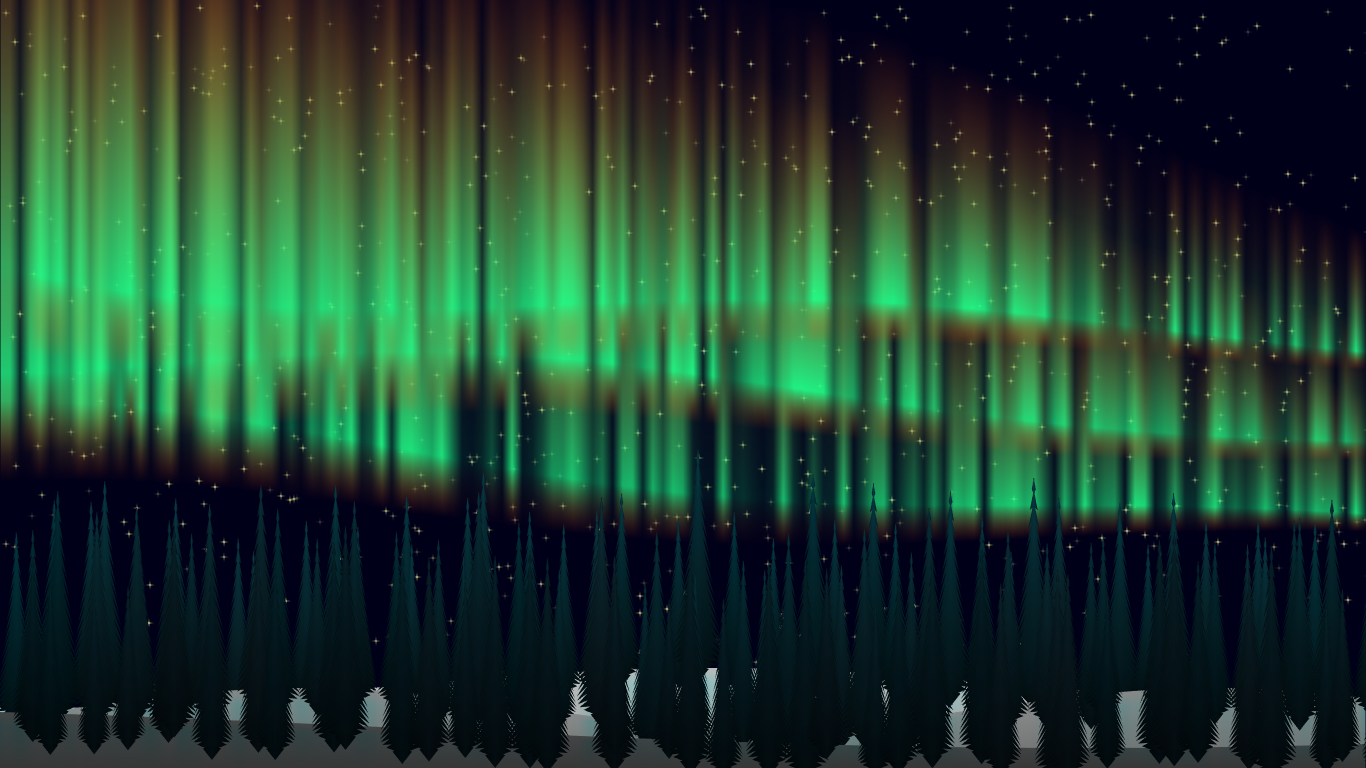
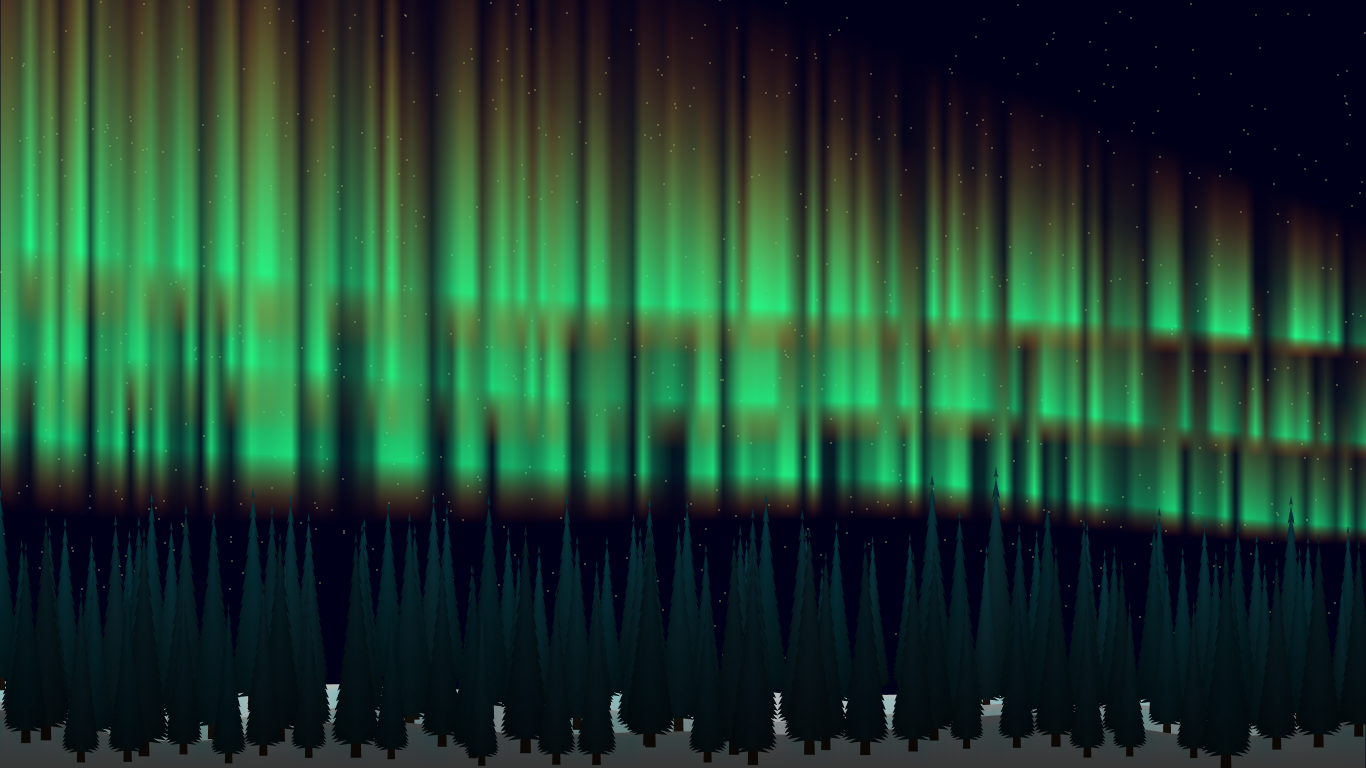
Release 1.3
Mostly removal of deprecated code and overall cleanup

diff --git a/Stars.cpp b/Stars.cpp
@@ -36,52 +36,24 @@ void Stars::draw(RenderTarget * renderTarget) {
   if (timeMapped >= -0.66 && timeMapped <= 0.66)
     return;
 
+  std::vector<Vertex> v;
   for (int i = 0; i < starsCount; i++) {
-
     float maskFloat = 1;
     if (timeMapped < 0 && timeMapped > -0.75 && timeMapped < -0.66)
       maskFloat *= map(timeMapped, -0.75, -0.66, 1, 0);
     else if (timeMapped > 0 && timeMapped > 0.66 && timeMapped < 0.75)
       maskFloat *= map(timeMapped, 0.66, 0.75, 0, 1);
 
-    if (controller->flags & Controller::Flags::LegacyStars) {
-      unsigned int x = stars[i][0] * controller->w + radius;
-      unsigned int y = stars[i][1] * controller->h * hMod + radius;
+    unsigned int x = stars[i][0] * controller->w;
+    unsigned int y = stars[i][1] * controller->h * hMod;
 
-      double waneSine = sin((blinkOffset + i) * M_PI / 180);
+    double waneSine = sin((blinkOffset + i) * M_PI / 180);
+    Color mask(0xFF, 0xFF, 0xFF, map(waneSine, -1, 1, 0.9, 1) * maskFloat * maxBrightness * 0xFF);
 
-      Color mask(0xFF, 0xFF, 0xFF, map(waneSine, -1, 1, 0.25, 1) * maskFloat * 0xFF);
-
-      Vertex line1[] =
-      {
-        Vertex(Vector2f(x - radius, y), Color::Transparent),
-        Vertex(Vector2f(x, y), color * mask),
-        Vertex(Vector2f(x + radius, y), Color::Transparent)
-      };
-
-      Vertex line2[] =
-      {
-        Vertex(Vector2f(x, y - radius), Color::Transparent),
-        Vertex(Vector2f(x, y), color * mask),
-        Vertex(Vector2f(x, y + radius), Color::Transparent)
-      };
-
-      renderTarget->draw(line1, 3, LineStrip);
-      renderTarget->draw(line2, 3, LineStrip);
-    }
-    else {
-      unsigned int x = stars[i][0] * controller->w;
-      unsigned int y = stars[i][1] * controller->h * hMod;
-
-      double waneSine = sin((blinkOffset + i) * M_PI / 180);
-
-      Color mask(0xFF, 0xFF, 0xFF, map(waneSine, -1, 1, 0.9, 1) * maskFloat * maxBrightness * 0xFF);
-
-      Vertex star[] = { Vertex(Vector2f(x, y), color * mask) };
-
-      renderTarget->draw(star, 1, Points);
-    }
+    v.push_back(Vertex(Vector2f(x, y), color * mask));
   }
+
+  renderTarget->draw(&v[0], v.size(), Points);
 }
 
 void Stars::update() {

diff --git a/main.cpp b/main.cpp
@@ -32,7 +32,7 @@ Controller::Controller() {
   h = 600;
 }
 
-
+Clock fpsClock;
 int fps = 60;
 ContextSettings settings;
 
@@ -169,9 +169,7 @@ void Controller::run() {
           flags ^= Flags::OverrideFFColors;
 
         if (event.key.code == Keyboard::S)
-          if (Keyboard::isKeyPressed(Keyboard::F3))
-            flags ^= Flags::LegacyStars;
-          else if (timeInternal > 15000 && timeInternal < 70000)
+          if (timeInternal > 15000 && timeInternal < 70000)
             timeInternal = 70000;
 
         if (event.key.code == Keyboard::F3)
@@ -233,8 +231,12 @@ void Controller::run() {
       }
 
       if (event.type == Event::Resized) {
-        FloatRect visibleArea(0, 0, event.size.width, event.size.height);
+        unsigned int sw = event.size.width < 300 ? 300 : event.size.width;
+        unsigned int sh = event.size.height < 300 ? 300 : event.size.height;
+        FloatRect visibleArea(0, 0, sw, sh);
         window->setView(View(visibleArea));
+        if (event.size.width < 300 || event.size.height < 300)
+          window->setSize(Vector2u(sw, sh));
       }
     }
 
@@ -277,10 +279,14 @@ void Controller::requestDraw() {
 }
 
 void Controller::requestUpdate() {
+  float currentTime = fpsClock.restart().asSeconds();
+  float fpsCurr = 1.f / currentTime;
+
   debugLabelText = "";
-  debugLabelText += "FoxFires ver. 1.2.0\n";
-  debugLabelText += "By Ilya Yavdoschuk\n";
+  debugLabelText += "FoxFires ver. 1.3.0\n";
+  debugLabelText += "By Illia Yavdoshchuk\n";
   debugLabelText += "\n";
+  debugLabelText += "FPS             : " + std::to_string((int)round(fpsCurr)) + " (max " + std::to_string(fps) + " - " + std::to_string((int)(round(fpsCurr / fps * 100))) + "%)\n";
   debugLabelText += "Time " + (std::string)(!(flags & Flags::UpdateClock)? "[paused]" : "        ") + "   : " + std::to_string(timeInternal) + " seconds\n";
   debugLabelText += "Time delta      : " + std::to_string(timeDelta) + " (" + std::to_string(timeManualDelta) + ") seconds per update\n";
   debugLabelText += "Sky data length : " + std::to_string(dataLength) + "\n";

diff --git a/Pine.cpp b/Pine.cpp
@@ -85,10 +85,10 @@ void Pine::drawPine(RenderTarget * renderTarget, Vector2f pos, Vector2f size, Co
     float tmpAngle = (angleStep * i);
 
     // Side reference vector
-    Vector2f sideRef = Vector2f(-size.x / 2, size.y);
+    Vector2f sideRef(-size.x / 2, size.y);
 
     // Top vertex position
-    Vector2f base = Vector2f(pos.x + size.x / 2, pos.y + size.y - tmp);
+    Vector2f base(pos.x + size.x / 2, pos.y + size.y - tmp);
 
     // Right vertex position
     Vector2f s1ln = Vector2f(pos.x, pos.y + size.y) - base;
@@ -98,10 +98,10 @@ void Pine::drawPine(RenderTarget * renderTarget, Vector2f pos, Vector2f size, Co
       continue;
 
     // Bottom vertex positions
-    Vector2f bottom = Vector2f(0, s1ln.y * 0.8);
+    Vector2f bottom(0, s1ln.y * 0.8);
 
     // Left vertex position
-    Vector2f s2ln = Vector2f(-s1ln.x, s1ln.y);
+    Vector2f s2ln(-s1ln.x, s1ln.y);
 
     // Rotate vector
     base += Vector2f(0, tmp) - rotateVector(Vector2f(0, tmp), tmpAngle);
@@ -141,9 +141,9 @@ void Pine::drawPine(RenderTarget * renderTarget, Vector2f pos, Vector2f size, Co
 void Pine::draw(RenderTarget * renderTarget){
   Vector2f localSize = size * sizeMult;
 
-  Vector2f winSize = Vector2f(controller->w, controller->h);
+  Vector2f winSize(controller->w, controller->h);
   Vector2f tmpPos = position - Vector2f(localSize.x / 2, localSize.y);
-  Vector2f tmpSize = Vector2f(localSize.x * winSize.x, localSize.y * winSize.y);
+  Vector2f tmpSize(localSize.x * winSize.x, localSize.y * winSize.y);
 
   tmpPos = Vector2f(tmpPos.x * winSize.x, tmpPos.y * winSize.y);
 

diff --git a/FoxFires.hpp b/FoxFires.hpp
@@ -66,8 +66,7 @@ namespace FG {
           static const short UpdateClock = 1 << 6;
           static const short OverrideFFColors = 1 << 7;
           static const short TargetChanged = 1 << 8;
-          static const short LegacyStars = 1 << 9;
-          static const short DarkNight = 1 << 10;
+          static const short DarkNight = 1 << 9;
       };
 
       short flags;
@@ -129,7 +128,8 @@ namespace FG {
       // Controller variables
       //
 
-      int dataLength = VideoMode::getDesktopMode().width / 10;
+      unsigned int step = 10;
+      unsigned int dataLength = VideoMode::getDesktopMode().width / step;
       double* data = new double[dataLength];
 
       int currentColor = 0;
